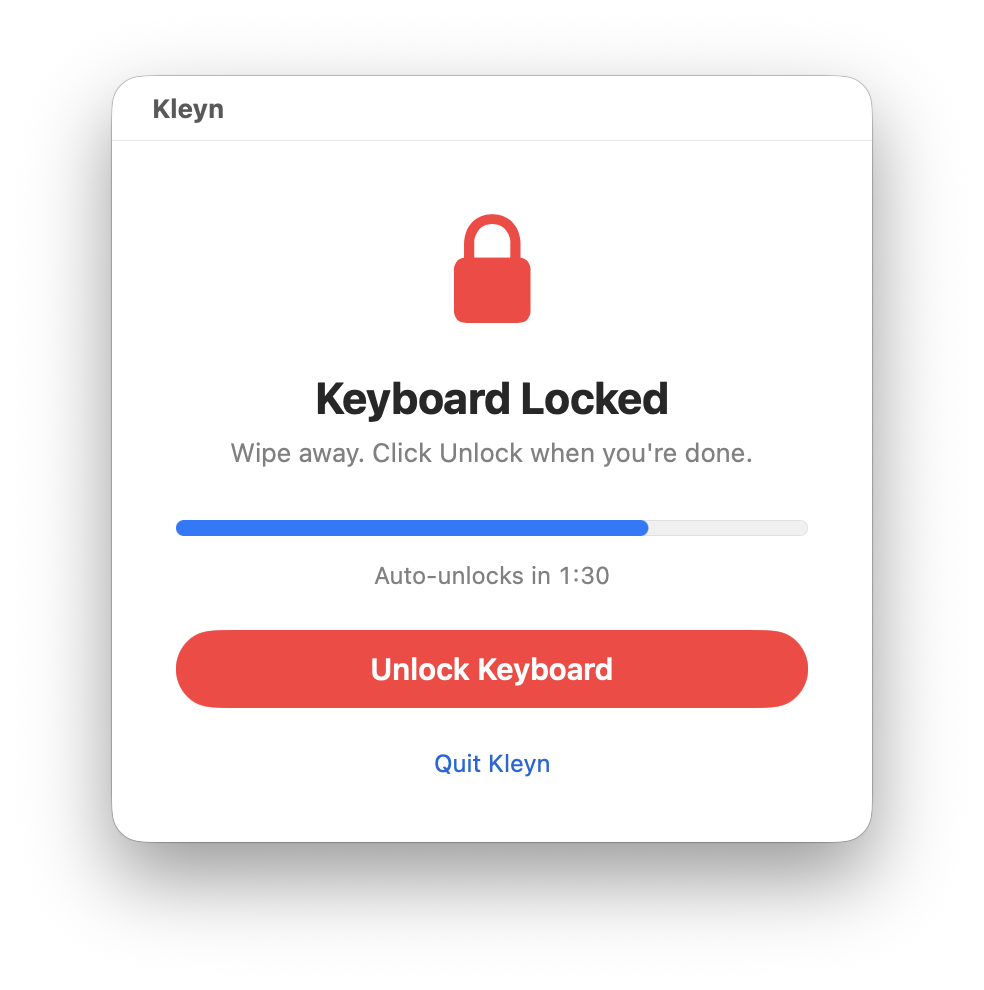
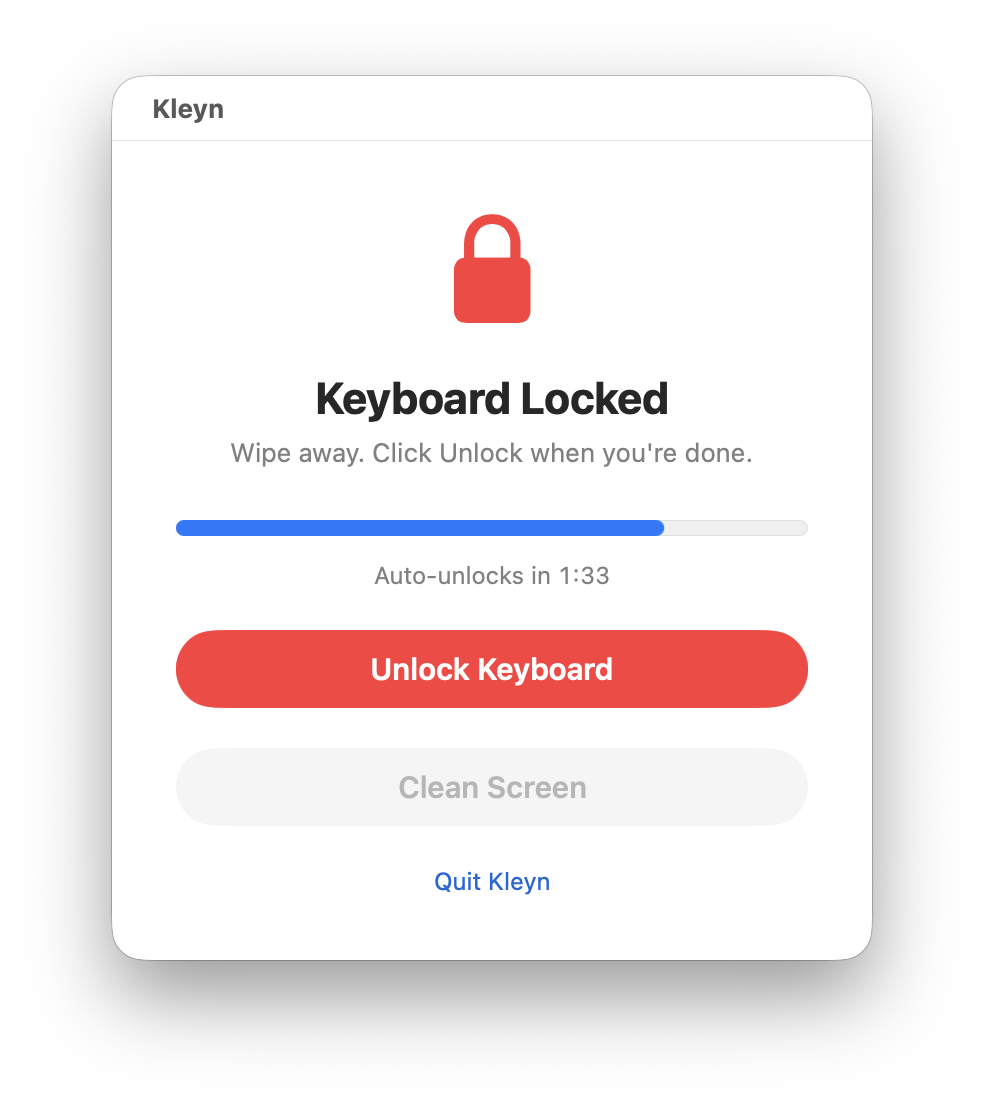
Add screen cleaning
Clean Screen covers every display, menu bar and Dock included, with plain
black so smudges stand out. A click or Space switches to white for dust,
and Esc finishes. Nothing is locked and no permission is needed. It also
ends if Kleyn stops being the active app, so the screens can't stay
covered while Esc goes elsewhere.

The button is disabled while the keyboard is locked, since the lock would
swallow Esc. It sits below the keyboard notices so the Accessibility
banner reads as part of the keyboard lock, whose heading now says so.

The README drops the "Keyboard Cleaning" subtitle, documents screen
cleaning, and has new screenshots.

diff --git a/Kleyn/ScreenCleaner.swift b/Kleyn/ScreenCleaner.swift
@@ -1,0 +1,171 @@
+//
+//  ScreenCleaner.swift
+//  Kleyn
+//
+
+import AppKit
+import Carbon.HIToolbox
+import Observation
+import SwiftUI
+
+/// Covers every display with plain black or white so smudges and dust are easy to see.
+///
+/// Nothing is locked and no permission is needed: Esc ends it, and a click or Space switches
+/// between black and white. It also ends if Kleyn stops being the active app, because Esc
+/// would then go to another app while the screens stayed covered.
+@Observable
+final class ScreenCleaner {
+    private(set) var isActive = false
+    private(set) var isWhite = false
+    /// Whether the instructions at the bottom of each screen are showing.
+    private(set) var isHintVisible = false
+
+    @ObservationIgnored private var windows: [CleaningWindow] = []
+    @ObservationIgnored private var observers: [NSObjectProtocol] = []
+    @ObservationIgnored private var hintTask: Task<Void, Never>?
+
+    func start() {
+        guard !isActive else { return }
+        isActive = true
+        isWhite = false
+
+        NSApp.activate()
+        showWindows()
+
+        let center = NotificationCenter.default
+        observers = [
+            center.addObserver(forName: NSApplication.didResignActiveNotification, object: nil, queue: .main) { [weak self] _ in
+                MainActor.assumeIsolated { self?.stop() }
+            },
+            // Cover displays that are connected, disconnected or rearranged while cleaning.
+            center.addObserver(forName: NSApplication.didChangeScreenParametersNotification, object: nil, queue: .main) { [weak self] _ in
+                MainActor.assumeIsolated {
+                    guard let self, self.isActive else { return }
+                    self.closeWindows()
+                    self.showWindows()
+                }
+            },
+        ]
+
+        showHint()
+    }
+
+    func stop() {
+        guard isActive else { return }
+        isActive = false
+
+        observers.forEach(NotificationCenter.default.removeObserver)
+        observers = []
+        hintTask?.cancel()
+        hintTask = nil
+        isHintVisible = false
+
+        closeWindows()
+        NSCursor.setHiddenUntilMouseMoves(false)
+    }
+
+    func toggleColor() {
+        guard isActive else { return }
+        isWhite.toggle()
+        for window in windows {
+            window.backgroundColor = isWhite ? .white : .black
+        }
+        showHint()
+    }
+
+    // MARK: - Private
+
+    private func showWindows() {
+        windows = NSScreen.screens.map(makeWindow)
+        windows.forEach { $0.orderFrontRegardless() }
+        // Key events go to one window; the one on the main screen is as good as any.
+        let keyWindow = windows.first { $0.screen == NSScreen.main } ?? windows.first
+        keyWindow?.makeKeyAndOrderFront(nil)
+    }
+
+    private func closeWindows() {
+        for window in windows {
+            window.orderOut(nil)
+            window.close()
+        }
+        windows = []
+    }
+
+    private func makeWindow(for screen: NSScreen) -> CleaningWindow {
+        let window = CleaningWindow(contentRect: screen.frame, styleMask: .borderless, backing: .buffered, defer: false)
+        window.cleaner = self
+        window.isReleasedWhenClosed = false
+        // Above the menu bar and Dock.
+        window.level = .screenSaver
+        window.collectionBehavior = [.canJoinAllSpaces, .fullScreenAuxiliary, .stationary]
+        window.backgroundColor = isWhite ? .white : .black
+        window.hasShadow = false
+        window.contentView = NSHostingView(rootView: CleaningView(cleaner: self))
+        window.setFrame(screen.frame, display: true)
+        return window
+    }
+
+    /// Shows the instructions for a few seconds, then fades them out. Hides the cursor too.
+    private func showHint() {
+        NSCursor.setHiddenUntilMouseMoves(true)
+        isHintVisible = true
+        hintTask?.cancel()
+        hintTask = Task {
+            try? await Task.sleep(for: .seconds(3))
+            guard !Task.isCancelled else { return }
+            isHintVisible = false
+        }
+    }
+
+    /// Handles input for all of the cleaning windows.
+    fileprivate func handle(_ event: NSEvent) -> Bool {
+        switch event.type {
+        case .keyDown:
+            // Let ⌘Q and other menu shortcuts through.
+            if event.modifierFlags.contains(.command) { return false }
+            switch Int(event.keyCode) {
+            case kVK_Escape: stop()
+            case kVK_Space: if !event.isARepeat { toggleColor() }
+            default: break   // Ignore stray keys silently, without a beep.
+            }
+            return true
+        case .keyUp:
+            return !event.modifierFlags.contains(.command)
+        case .leftMouseDown, .rightMouseDown, .otherMouseDown:
+            toggleColor()
+            return true
+        default:
+            return false
+        }
+    }
+}
+
+/// A borderless full-screen window that can take key events.
+private final class CleaningWindow: NSWindow {
+    weak var cleaner: ScreenCleaner?
+
+    override var canBecomeKey: Bool { true }
+    override var canBecomeMain: Bool { true }
+
+    override func sendEvent(_ event: NSEvent) {
+        if cleaner?.handle(event) == true { return }
+        super.sendEvent(event)
+    }
+}
+
+private struct CleaningView: View {
+    let cleaner: ScreenCleaner
+
+    var body: some View {
+        (cleaner.isWhite ? Color.white : Color.black)
+            .ignoresSafeArea()
+            .overlay(alignment: .bottom) {
+                Text("Click or press Space to switch to \(cleaner.isWhite ? "black" : "white")  ·  Press Esc to finish")
+                    .font(.title3)
+                    .foregroundStyle(.gray)
+                    .padding(.bottom, 80)
+                    .opacity(cleaner.isHintVisible ? 1 : 0)
+                    .animation(.easeOut(duration: 0.6), value: cleaner.isHintVisible)
+            }
+    }
+}

diff --git a/Kleyn/ContentView.swift b/Kleyn/ContentView.swift
@@ -9,6 +9,7 @@ import SwiftUI
 
 struct ContentView: View {
     @Bindable var locker: KeyboardLocker
+    let screenCleaner: ScreenCleaner
 
     private let autoUnlockDuration = Duration.seconds(KeyboardLocker.autoUnlockInterval)
         .formatted(.units(allowed: [.minutes, .seconds], width: .wide))
@@ -61,6 +62,18 @@ struct ContentView: View {
                 notice(errorMessage, systemImage: "xmark.octagon.fill", tint: .red)
             }
 
+            // Below the keyboard notices, so they read as part of the keyboard lock.
+            // Screen cleaning needs no permission.
+            Button(action: screenCleaner.start) {
+                Text("Clean Screen")
+                    .font(.title3.weight(.semibold))
+                    .frame(maxWidth: .infinity)
+            }
+            .buttonStyle(.bordered)
+            .controlSize(.extraLarge)
+            // The keyboard lock would swallow Esc, leaving no way to end screen cleaning.
+            .disabled(locker.isLocked)
+
             Button("Quit Kleyn") {
                 NSApplication.shared.terminate(nil)
             }
@@ -88,7 +101,7 @@ struct ContentView: View {
 
     private var permissionHelp: some View {
         VStack(alignment: .leading, spacing: 10) {
-            Label("Kleyn needs Accessibility access", systemImage: "hand.raised.fill")
+            Label("Keyboard lock needs Accessibility access", systemImage: "hand.raised.fill")
                 .font(.headline)
             Text("macOS only lets apps with Accessibility access block keyboard input.")
             Text("1. Click **Open System Settings**.\n2. Turn on **Kleyn** in the list (use **+** to add it if it's missing).\n3. Come back and click **Lock Keyboard**.")
@@ -116,5 +129,5 @@ struct ContentView: View {
 }
 
 #Preview {
-    ContentView(locker: KeyboardLocker())
+    ContentView(locker: KeyboardLocker(), screenCleaner: ScreenCleaner())
 }

diff --git a/Kleyn/KleynApp.swift b/Kleyn/KleynApp.swift
@@ -10,10 +10,11 @@ import SwiftUI
 @main
 struct KleynApp: App {
     @State private var locker = KeyboardLocker()
+    @State private var screenCleaner = ScreenCleaner()
 
     var body: some Scene {
         Window("Kleyn", id: "main") {
-            ContentView(locker: locker)
+            ContentView(locker: locker, screenCleaner: screenCleaner)
         }
         .windowResizability(.contentSize)
     }

diff --git a/README.md b/README.md
@@ -2,11 +2,11 @@
   <img src="docs/images/icon.png" width="128" height="128" alt="Kleyn app icon">
 </p>
 
-<h1 align="center">Kleyn – Keyboard Cleaning</h1>
+<h1 align="center">Kleyn</h1>
 
 <p align="center">
-  A tiny macOS utility that temporarily locks your keyboard so you can wipe it clean<br>
-  without typing garbage or triggering shortcuts.
+  A tiny macOS utility for cleaning your Mac: lock the keyboard so you can wipe it<br>
+  without typing garbage or triggering shortcuts, or black out the screen to spot smudges.
 </p>
 
 <p align="center">
@@ -22,6 +22,7 @@
 - **Safety net.** An optional auto-unlock after 2 minutes, with a visible countdown. On by default, and remembered between launches.
 - **Can't lose the button.** The window can't be closed or minimized while the keyboard is locked.
 - **Fails safe.** Quitting Kleyn, or Kleyn crashing, always releases the keyboard.
+- **Screen cleaning.** Covers every display, including the menu bar and Dock, in black so smudges and streaks stand out. Click or press Space to switch to white, which shows dust better. Press Esc to finish. Nothing is locked, and no permission is needed.
 - **Small and dependency-free.** Pure Swift and SwiftUI, no third-party code.
 
 ## Requirements
@@ -40,6 +41,14 @@ Download the latest **Kleyn-*version*.dmg** from the [Releases page](https://git
 3. Click **Unlock Keyboard**, or wait for the auto-unlock.
 
 Kleyn keeps running after you unlock, so you can lock again any time. Quit with ⌘Q or **Quit Kleyn**.
+
+### Cleaning the screen
+
+1. Click **Clean Screen**. Every display turns black.
+2. Wipe the screen. Click or press Space to switch between black and white.
+3. Press Esc when you're done.
+
+Screen cleaning also ends if you switch to another app. **Clean Screen** isn't available while the keyboard is locked, because the lock would block Esc.
 
 ### Granting Accessibility access
 
@@ -67,6 +76,8 @@ Kleyn installs an active [`CGEventTap`](https://developer.apple.com/documentatio
 The tap belongs to Kleyn's process, so the system removes it as soon as Kleyn exits. Taking exclusive control of the keyboard device through IOKit was ruled out: on current macOS that needs root, which would mean shipping a privileged helper.
 
 All the locking logic is in [`KeyboardLocker.swift`](Kleyn/KeyboardLocker.swift).
+
+Screen cleaning uses one borderless window per display, above the menu bar and Dock, and doesn't touch the keyboard lock. Those windows handle Esc, Space and clicks themselves; other keys are ignored, and ⌘ shortcuts like ⌘Q still work. The code is in [`ScreenCleaner.swift`](Kleyn/ScreenCleaner.swift).
 
 ## Building
 
@@ -102,6 +113,7 @@ The DMG isn't signed by the script. Sign and notarize it before shipping.
 | Path | Contents |
 |---|---|
 | `Kleyn/KeyboardLocker.swift` | Event tap, auto-unlock countdown, permission checks |
+| `Kleyn/ScreenCleaner.swift` | Full-screen black/white windows for screen cleaning |
 | `Kleyn/ContentView.swift` | The window's interface |
 | `Kleyn/KleynApp.swift` | App entry point |
 | `Kleyn/AppIcon.icon` | Icon Composer app icon |
